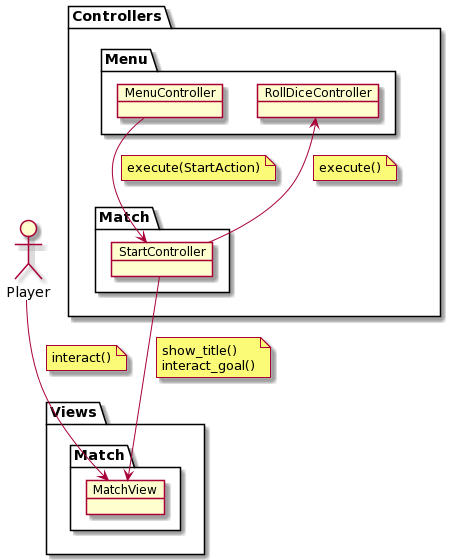
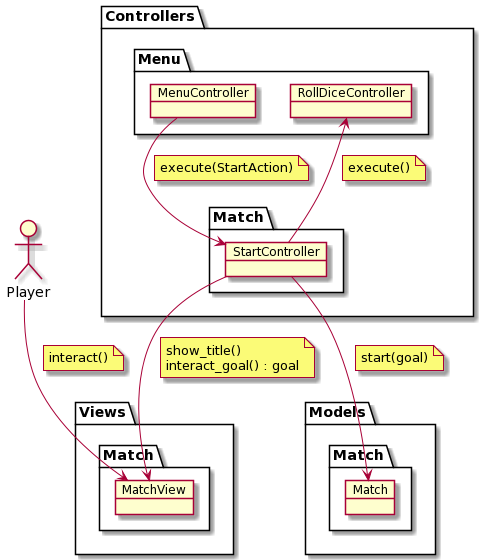
Improve start and move_piece use case description and analysis

Changed region(s): [[0.0, 0.0, 0.9211, 1.0], [0.9518, 0.0607, 0.9825, 0.5768]]

diff --git a/rup/README.md b/rup/README.md
@@ -160,6 +160,9 @@ Select your choice: 2
 #### Start
 ![Start](/rup/analysis/use_cases/start.png)
 
+### MovePiece
+![MovePiece](/rup/analysis/use_cases/move_piece.png)
+
 ### RequestBet
 ![RequestBet](/rup/analysis/use_cases/request_bet.png)
 
